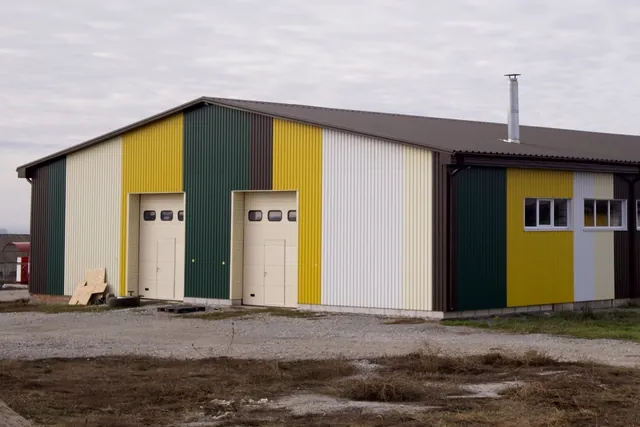
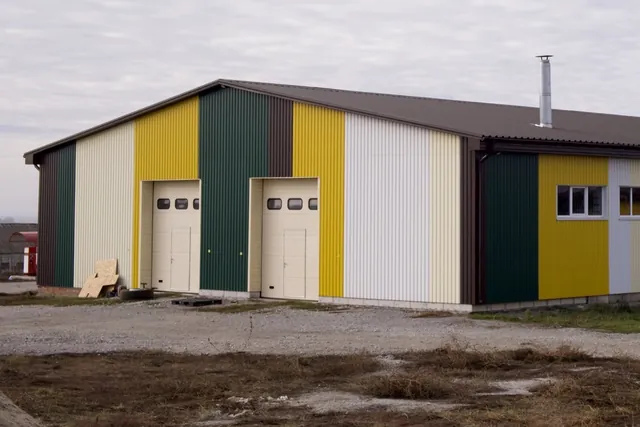
HOME v2 prototype: photoreal card 01, tighter real-hangar frame
Card 01 swaps the flat configurator render for the /metalokonstruktsii
collage (a photoreal frame over its node and bracing drawings), cropped.
The real hangar stays real: a tighter crop of the same approved frame
and an on-screen shade over the overcast sky. The file itself is only
cropped.

diff --git a/app/components/home-v2/EngineeringSignature.tsx b/app/components/home-v2/EngineeringSignature.tsx
@@ -26,11 +26,11 @@ function Pins({ pins }: Readonly<{ pins: readonly Pin[] }>) {
   );
 }
 
-function CardImage({ base, alt }: Readonly<{ base: string; alt: string }>) {
+function CardImage({ base, alt, large = 1040 }: Readonly<{ base: string; alt: string; large?: number }>) {
   return (
     <img
-      src={`/media/home-v2/concepts/${base}-1040w.webp`}
-      srcSet={`/media/home-v2/concepts/${base}-640w.webp 640w, /media/home-v2/concepts/${base}-1040w.webp 1040w`}
+      src={`/media/home-v2/concepts/${base}-${large}w.webp`}
+      srcSet={`/media/home-v2/concepts/${base}-640w.webp 640w, /media/home-v2/concepts/${base}-${large}w.webp ${large}w`}
       sizes="(max-width: 760px) 100vw, 34vw"
       alt={alt}
       loading="lazy"
@@ -98,11 +98,13 @@ const cards: readonly { number: string; title: ReactNode; text: string; tag: str
     tag: 'Ілюстрація',
     visual: (
       <>
-        <CardImage base="card-cutaway" alt="Ілюстрація: ангар із вирізом в обшивці, під яким видно каркас" />
+        {/* A photoreal frame above and its drawings below (the /metalokonstruktsii hero collage, cropped): the
+            card's idea in one picture. Pins pair the frame in the photo with the node and bracing drawings. */}
+        <CardImage base="card-photo-drawing" large={1012} alt="Ілюстрація: сталевий каркас на майданчику, під ним креслення каркаса, вузла колони та зв’язків" />
         <Pins pins={[
-          { label: 'Покрівля', x: '68%', y: '31%', side: 'left' },
-          { label: 'Каркас', x: '46%', y: '57%' },
-          { label: 'Стінові панелі', x: '13%', y: '69%' },
+          { label: 'Рама', x: '64%', y: '25%', side: 'left' },
+          { label: 'Вузол колони', x: '44.6%', y: '82%', side: 'left' },
+          { label: 'Зв’язки', x: '65.6%', y: '82%' },
         ]} />
       </>
     ),
@@ -134,12 +136,12 @@ const cards: readonly { number: string; title: ReactNode; text: string; tag: str
 
 // Where each confirmed scope line sits in the two crops of the approved frame (percent of the crop). Measured on the
 // original 1800×1200 frame: gable apex (365, 598), side-wall panel (920, 800) / gable panel (640, 820), roof
-// (1150, 665) / (800, 632). Wide crop = y 390–1110; narrow crop = x 30–1080, y 420–1120. A scope line with no
-// entry here simply has no marker.
+// (1150, 665) / (800, 632). Wide crop = x 0–1550, y 440–1060; narrow crop = x 20–1020, y 455–1122. A scope line
+// with no entry here simply has no marker.
 const evidencePins: Record<string, { wide: [string, string]; narrow: [string, string] }> = {
-  Каркас: { wide: ['20.3%', '28.9%'], narrow: ['31.9%', '25.4%'] },
-  'Стінові панелі': { wide: ['51.1%', '56.9%'], narrow: ['58.1%', '57.1%'] },
-  Покрівля: { wide: ['63.9%', '38.2%'], narrow: ['73.3%', '30.3%'] },
+  Каркас: { wide: ['23.5%', '25.5%'], narrow: ['34.5%', '21.4%'] },
+  'Стінові панелі': { wide: ['59.4%', '58.1%'], narrow: ['62%', '54.7%'] },
+  Покрівля: { wide: ['74.2%', '36.3%'], narrow: ['78%', '26.5%'] },
 };
 
 function EvidenceObject({ proof }: Readonly<{ proof: HomeProofCase }>) {
@@ -148,8 +150,8 @@ function EvidenceObject({ proof }: Readonly<{ proof: HomeProofCase }>) {
     <figure className="hv2-evidence">
       <div className="hv2-evidence-media">
         <picture>
-          <source media="(max-width: 760px)" type="image/webp" srcSet="/media/home-v2/hangar-narrow-640w.webp 640w, /media/home-v2/hangar-narrow-1050w.webp 1050w" sizes="100vw" />
-          <source type="image/webp" srcSet="/media/home-v2/hangar-wide-960w.webp 960w, /media/home-v2/hangar-wide-1440w.webp 1440w, /media/home-v2/hangar-wide-1800w.webp 1800w" sizes="(max-width: 1440px) 92vw, 1296px" />
+          <source media="(max-width: 760px)" type="image/webp" srcSet="/media/home-v2/hangar-narrow-640w.webp 640w, /media/home-v2/hangar-narrow-1000w.webp 1000w" sizes="100vw" />
+          <source type="image/webp" srcSet="/media/home-v2/hangar-wide-960w.webp 960w, /media/home-v2/hangar-wide-1550w.webp 1550w" sizes="(max-width: 1440px) 92vw, 1296px" />
           <img src={photo.src} alt={photo.alt} loading="lazy" decoding="async" />
         </picture>
         {scope.subject.map((item, index) => {
@@ -163,6 +165,9 @@ function EvidenceObject({ proof }: Readonly<{ proof: HomeProofCase }>) {
             </span>
           );
         })}
+        {/* Display-only shade: the overcast sky is darkened on screen so the frame sits in the dark block. The photo
+            file itself is untouched (crop only). */}
+        <span className="hv2-evidence-shade" aria-hidden="true" />
         <span className="hv2-tag hv2-tag-photo">Фото об’єкта</span>
       </div>
       <figcaption className="hv2-evidence-facts">

diff --git a/app/home-v2.css b/app/home-v2.css
@@ -199,7 +199,15 @@ main[data-home="v2"] .hv2-boundary strong { color: var(--hv2-text); font-weight:
 
 /* --- the real object: evidence, not decoration --- */
 main[data-home="v2"] .hv2-evidence { margin: 64px 0 0; background: var(--hv2-graphite-2); border: 1px solid var(--hv2-line); }
-main[data-home="v2"] .hv2-evidence-media { position: relative; aspect-ratio: 1800 / 720; overflow: hidden; background: #0f1110; }
+main[data-home="v2"] .hv2-evidence-media { position: relative; aspect-ratio: 1550 / 620; overflow: hidden; background: #0f1110; }
+/* The overcast sky was the brightest area on the page; a shade over the top third (on screen only) lets the frame sit
+   in the charcoal block, and a faint bottom fade hands over to the facts panel. */
+main[data-home="v2"] .hv2-evidence-shade {
+  position: absolute; z-index: 1; inset: 0; pointer-events: none;
+  background:
+    linear-gradient(180deg, rgba(18, 20, 19, .62) 0%, rgba(18, 20, 19, .28) 18%, rgba(18, 20, 19, 0) 34%),
+    linear-gradient(0deg, rgba(18, 20, 19, .38) 0%, rgba(18, 20, 19, 0) 22%);
+}
 main[data-home="v2"] .hv2-evidence-media img { position: absolute; inset: 0; width: 100%; height: 100%; object-fit: cover; }
 main[data-home="v2"] .hv2-evidence-pin { position: absolute; z-index: 2; left: var(--x); top: var(--y); display: flex; align-items: center; transform: translate(-14px, -50%); }
 main[data-home="v2"] .hv2-evidence-pin > i {
@@ -315,7 +323,7 @@ main[data-home="v2"] .hv2-conversation-grid > .inquiry-form { grid-area: auto; }
   main[data-home="v2"] .hv2-pin > span { font-size: 10.5px; padding: 4px 7px; }
 
   main[data-home="v2"] .hv2-evidence { margin-top: 44px; margin-inline: calc(var(--container-gutter) * -1); border-inline: 0; }
-  main[data-home="v2"] .hv2-evidence-media { aspect-ratio: 1050 / 700; }
+  main[data-home="v2"] .hv2-evidence-media { aspect-ratio: 1000 / 667; }
   main[data-home="v2"] .hv2-evidence-pin { left: var(--mx); top: var(--my); transform: translate(-13px, -50%); }
   main[data-home="v2"] .hv2-evidence-pin > i { width: 26px; height: 26px; }
   main[data-home="v2"] .hv2-evidence-pin > span { display: none; }

diff --git a/scripts/generate-home-v2-crops.py b/scripts/generate-home-v2-crops.py
@@ -4,10 +4,10 @@
 Crop and resize only: no retouching, no compositing, no generated pixels. Sources and boxes:
 
   concepts/hero-mobile      media/directions-sequence-source/angary.png   (720, 0, 1472, 941)  concept render, 4:5
-  concepts/card-cutaway     media/angary/envelope-sandwich-cutaway.jpg    (51, 0, 1449, 1049)  concept render, 4:3
+  concepts/card-photo-drawing media/direction-hero-source/metalokonstruktsii.png (470, 230, 1482, 989) concept photo + drawings, 4:3
   concepts/card-node        media/concepts/about-experience-v2.jpg        (0, 620, 1440, 1700) concept image, 4:3
-  hangar-wide               photos/serhii-prior-hangar.jpeg               (0, 390, 1800, 1110) the approved frame, sky/ground trimmed
-  hangar-narrow             photos/serhii-prior-hangar.jpeg               (30, 420, 1080, 1120)
+  hangar-wide               photos/serhii-prior-hangar.jpeg               (0, 440, 1550, 1060) the approved frame, sky/ground trimmed
+  hangar-narrow             photos/serhii-prior-hangar.jpeg               (20, 455, 1020, 1122)
   conversation-bg           media/engineering-planning.jpg                (0, 600, 1800, 1800) decorative
   conversation-bg-portrait  media/engineering-planning.jpg                (0, 300, 1800, 2700) decorative
 
@@ -26,10 +26,10 @@ OUT = 'public/media/home-v2/'
 
 JOBS = [
     ('concepts/hero-mobile', 'media/directions-sequence-source/angary.png', (720, 0, 1472, 941), [480, 752], 80),
-    ('concepts/card-cutaway', 'media/angary/envelope-sandwich-cutaway.jpg', (51, 0, 1449, 1049), [640, 1040], 80),
+    ('concepts/card-photo-drawing', 'media/direction-hero-source/metalokonstruktsii.png', (470, 230, 1482, 989), [640, 1012], 80),
     ('concepts/card-node', 'media/concepts/about-experience-v2.jpg', (0, 620, 1440, 1700), [640, 1040], 80),
-    ('hangar-wide', 'photos/serhii-prior-hangar.jpeg', (0, 390, 1800, 1110), [960, 1440, 1800], 80),
-    ('hangar-narrow', 'photos/serhii-prior-hangar.jpeg', (30, 420, 1080, 1120), [640, 1050], 80),
+    ('hangar-wide', 'photos/serhii-prior-hangar.jpeg', (0, 440, 1550, 1060), [960, 1550], 80),
+    ('hangar-narrow', 'photos/serhii-prior-hangar.jpeg', (20, 455, 1020, 1122), [640, 1000], 80),
     ('conversation-bg', 'media/engineering-planning.jpg', (0, 600, 1800, 1800), [960, 1600], 72),
     ('conversation-bg-portrait', 'media/engineering-planning.jpg', (0, 300, 1800, 2700), [720], 70),
 ]
